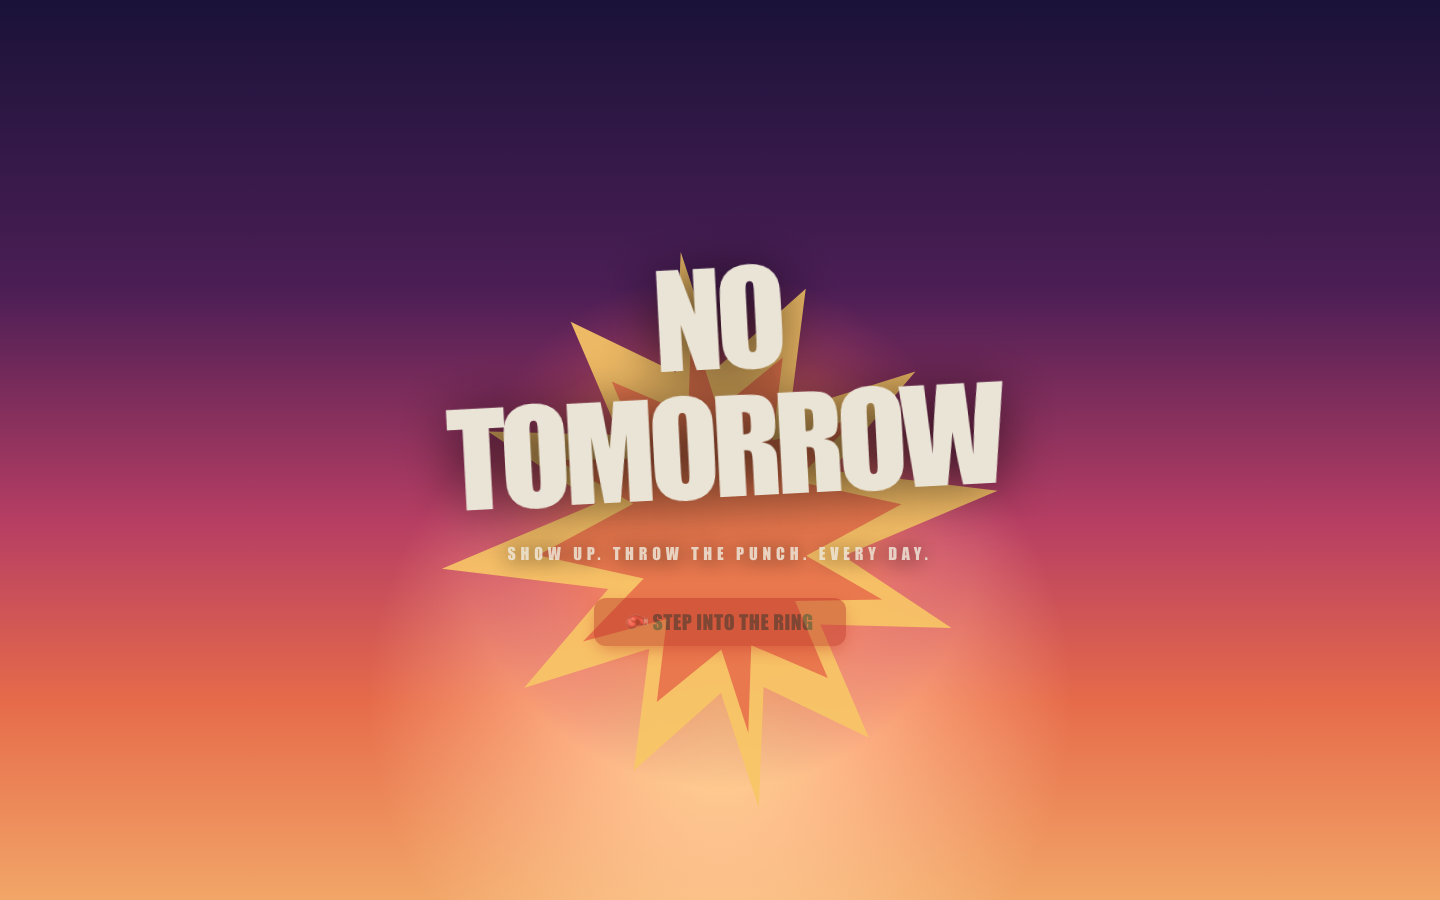
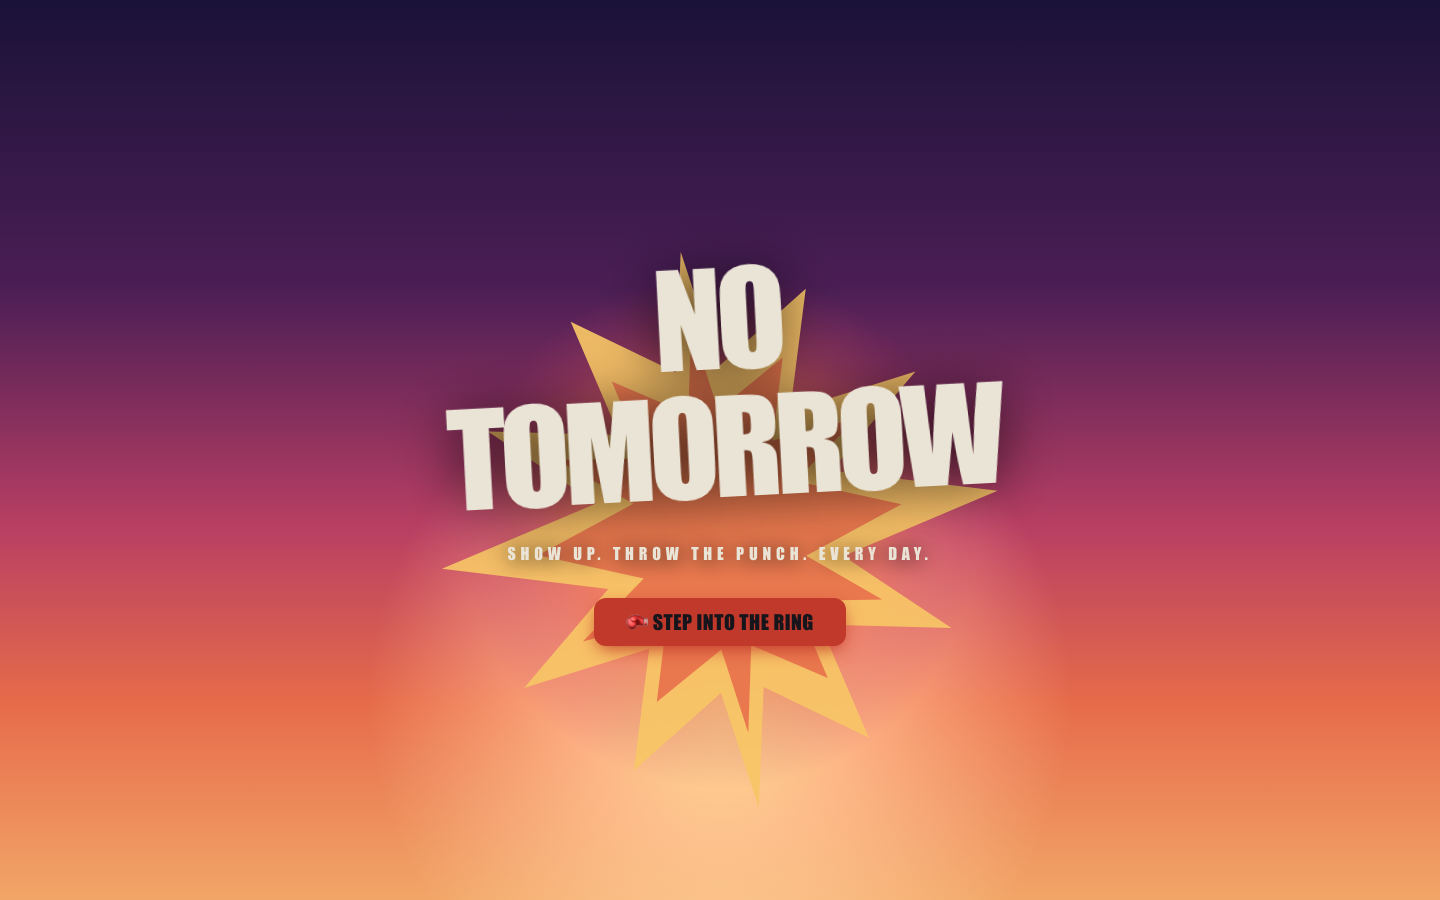
Re-capture landing screenshot in final-animation state
Headless Chrome captured the page mid-framer-motion intro
so the tagline and CTA were missing. Adds a `?static=1`
escape hatch (and prefers-reduced-motion respect) that
snaps every motion element to its `animate` target on
first paint, then re-screenshots at /?static=1.

Changed region(s): [[0.4062, 0.6533, 0.5938, 0.7467]]

diff --git a/apps/web/app/page.tsx b/apps/web/app/page.tsx
@@ -1,59 +1,100 @@
 'use client';
 
-import { motion } from 'framer-motion';
+import { motion, useReducedMotion } from 'framer-motion';
 import Link from 'next/link';
+import { useSearchParams } from 'next/navigation';
+import { Suspense } from 'react';
 import { Button } from '@/lib/ui';
 
 /**
  * Landing page. Single punchy CTA into Counters. Sunset gradient background
  * with a comic-style POW! burst behind the title — nothing else competing
  * for attention.
+ *
+ * Passing `?static=1` (used by the README screenshot capture) and the OS
+ * "Reduce Motion" setting both make the page render at its animated-final
+ * state without playing the intros.
  */
 export default function HomePage() {
   return (
     <main className="sunset-hero-with-sun relative min-h-screen flex flex-col items-center justify-center px-6 py-16 overflow-hidden">
-      <div className="relative z-10 text-center space-y-8 max-w-2xl">
-        <div className="relative inline-block">
-          <PowBurst />
-          <motion.h1
-            initial={{ scale: 0.92, rotate: -3, opacity: 0 }}
-            animate={{ scale: 1, rotate: -3, opacity: 1 }}
-            transition={{ type: 'spring', stiffness: 140, damping: 14 }}
-            className="relative font-display tracking-tighter text-charcoal leading-none
-                       text-7xl md:text-9xl drop-shadow-[0_4px_28px_rgba(0,0,0,0.65)]"
-          >
-            NO
-            <br />
-            TOMORROW
-          </motion.h1>
-        </div>
-
-        <motion.p
-          initial={{ opacity: 0, y: 8 }}
-          animate={{ opacity: 1, y: 0 }}
-          transition={{ delay: 0.25, duration: 0.45 }}
-          className="font-display uppercase tracking-[0.3em] text-sm md:text-base text-charcoal drop-shadow-[0_2px_10px_rgba(0,0,0,0.85)]"
-        >
-          Show up. Throw the punch. Every day.
-        </motion.p>
-
-        <motion.div
-          initial={{ opacity: 0, scale: 0.94 }}
-          animate={{ opacity: 1, scale: 1 }}
-          transition={{ delay: 0.45, type: 'spring', stiffness: 200, damping: 18 }}
-        >
-          <Link href="/counters">
-            <Button
-              variant="primary"
-              size="lg"
-              className="text-lg md:text-xl px-8 py-4 shadow-[0_8px_30px_rgba(192,57,43,0.45)]"
-            >
-              🥊 Step into the ring
-            </Button>
-          </Link>
-        </motion.div>
-      </div>
+      <Suspense fallback={<HeroBlock staticRender={false} />}>
+        <Hero />
+      </Suspense>
     </main>
+  );
+}
+
+function Hero() {
+  const reduced = useReducedMotion();
+  const params = useSearchParams();
+  const staticRender = reduced === true || params?.get('static') === '1';
+  return <HeroBlock staticRender={staticRender} />;
+}
+
+function HeroBlock({ staticRender }: { staticRender: boolean }) {
+  // When `staticRender`, initial === animate so framer-motion lands at the
+  // final visual state on the first paint.
+  const titleProps = staticRender
+    ? { initial: { scale: 1, rotate: -3, opacity: 1 } }
+    : {
+        initial: { scale: 0.92, rotate: -3, opacity: 0 },
+        animate: { scale: 1, rotate: -3, opacity: 1 },
+        transition: { type: 'spring' as const, stiffness: 140, damping: 14 },
+      };
+  const taglineProps = staticRender
+    ? { initial: { opacity: 1, y: 0 } }
+    : {
+        initial: { opacity: 0, y: 8 },
+        animate: { opacity: 1, y: 0 },
+        transition: { delay: 0.25, duration: 0.45 },
+      };
+  const ctaProps = staticRender
+    ? { initial: { opacity: 1, scale: 1 } }
+    : {
+        initial: { opacity: 0, scale: 0.94 },
+        animate: { opacity: 1, scale: 1 },
+        transition: {
+          delay: 0.45,
+          type: 'spring' as const,
+          stiffness: 200,
+          damping: 18,
+        },
+      };
+  return (
+    <div className="relative z-10 text-center space-y-8 max-w-2xl">
+      <div className="relative inline-block">
+        <PowBurst staticRender={staticRender} />
+        <motion.h1
+          {...titleProps}
+          className="relative font-display tracking-tighter text-charcoal leading-none
+                     text-7xl md:text-9xl drop-shadow-[0_4px_28px_rgba(0,0,0,0.65)]"
+        >
+          NO
+          <br />
+          TOMORROW
+        </motion.h1>
+      </div>
+
+      <motion.p
+        {...taglineProps}
+        className="font-display uppercase tracking-[0.3em] text-sm md:text-base text-charcoal drop-shadow-[0_2px_10px_rgba(0,0,0,0.85)]"
+      >
+        Show up. Throw the punch. Every day.
+      </motion.p>
+
+      <motion.div {...ctaProps}>
+        <Link href="/counters">
+          <Button
+            variant="primary"
+            size="lg"
+            className="text-lg md:text-xl px-8 py-4 shadow-[0_8px_30px_rgba(192,57,43,0.45)]"
+          >
+            🥊 Step into the ring
+          </Button>
+        </Link>
+      </motion.div>
+    </div>
   );
 }
 
@@ -61,15 +102,20 @@ export default function HomePage() {
  * Comic-book POW! burst sitting behind the title. Pure SVG so it scales
  * cleanly and ships zero bytes of raster.
  */
-function PowBurst() {
+function PowBurst({ staticRender }: { staticRender: boolean }) {
+  const burstProps = staticRender
+    ? { initial: { scale: 1, rotate: -8, opacity: 1 } }
+    : {
+        initial: { scale: 0.7, rotate: -12, opacity: 0 },
+        animate: { scale: 1, rotate: -8, opacity: 1 },
+        transition: { delay: 0.1, type: 'spring' as const, stiffness: 130, damping: 12 },
+      };
   return (
     <motion.svg
       aria-hidden
       viewBox="0 0 600 600"
       className="absolute -inset-12 -z-10 pointer-events-none"
-      initial={{ scale: 0.7, rotate: -12, opacity: 0 }}
-      animate={{ scale: 1, rotate: -8, opacity: 1 }}
-      transition={{ delay: 0.1, type: 'spring', stiffness: 130, damping: 12 }}
+      {...burstProps}
     >
       <defs>
         <radialGradient id="powGlow" cx="50%" cy="50%" r="50%">